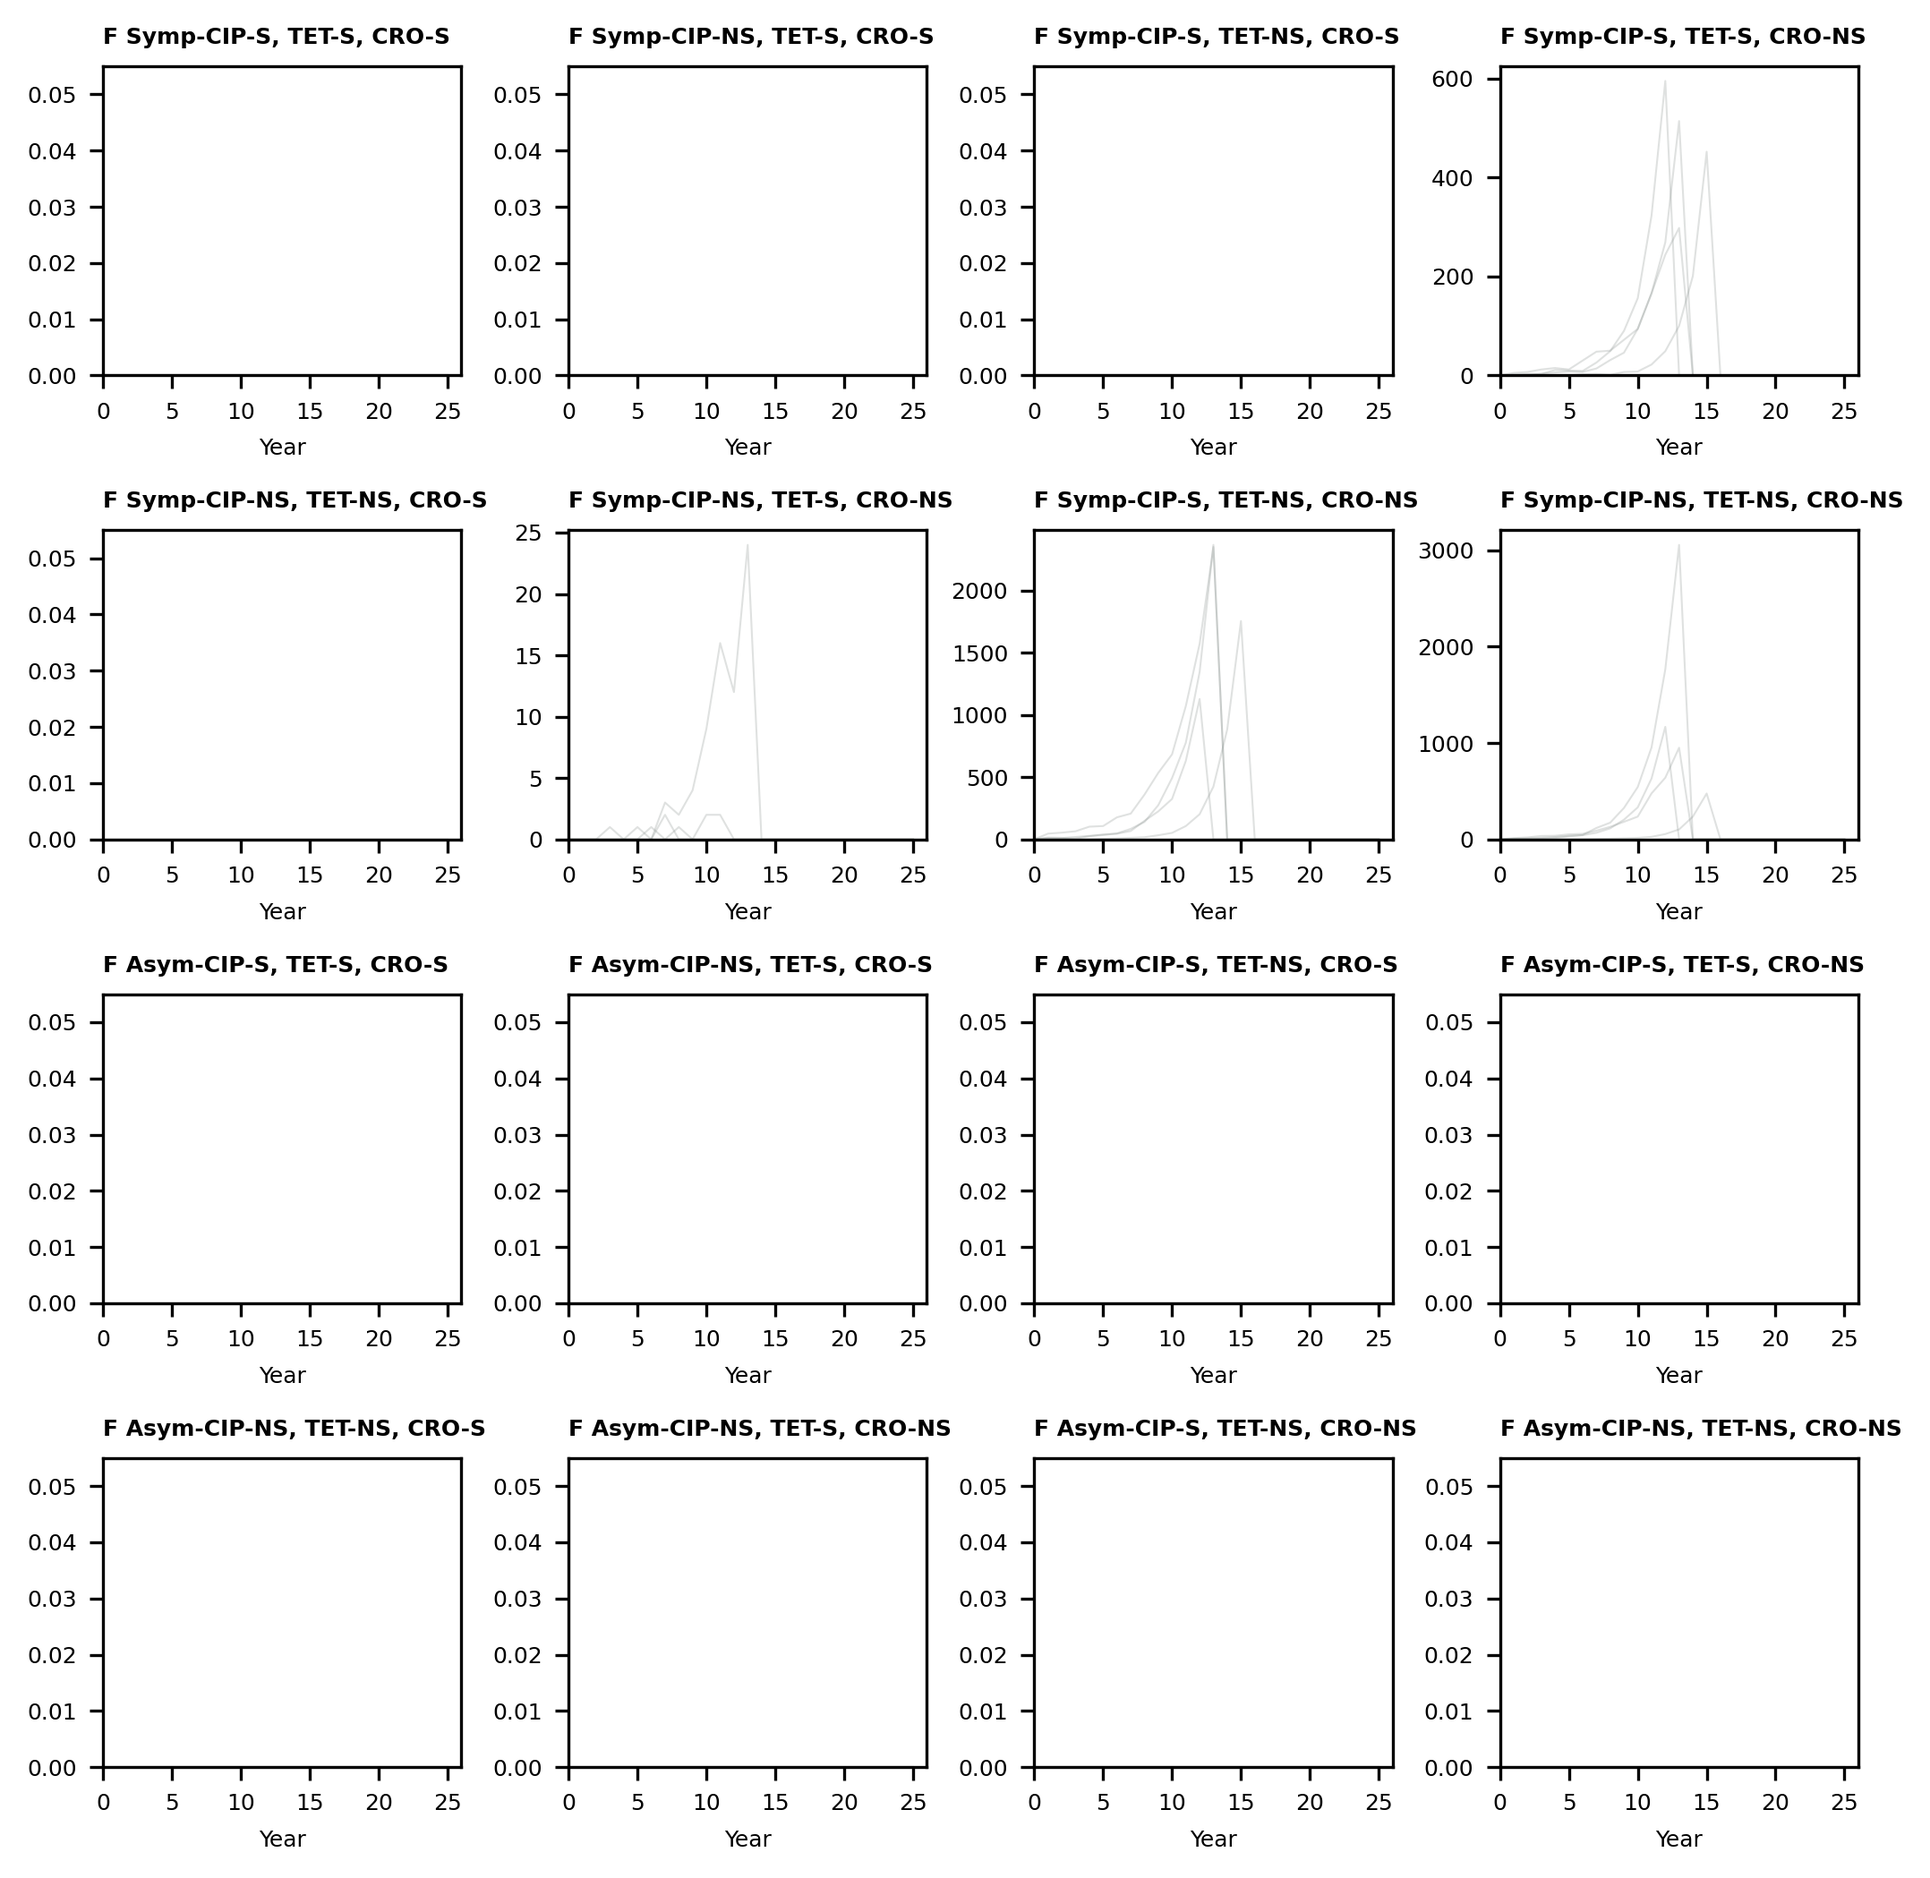
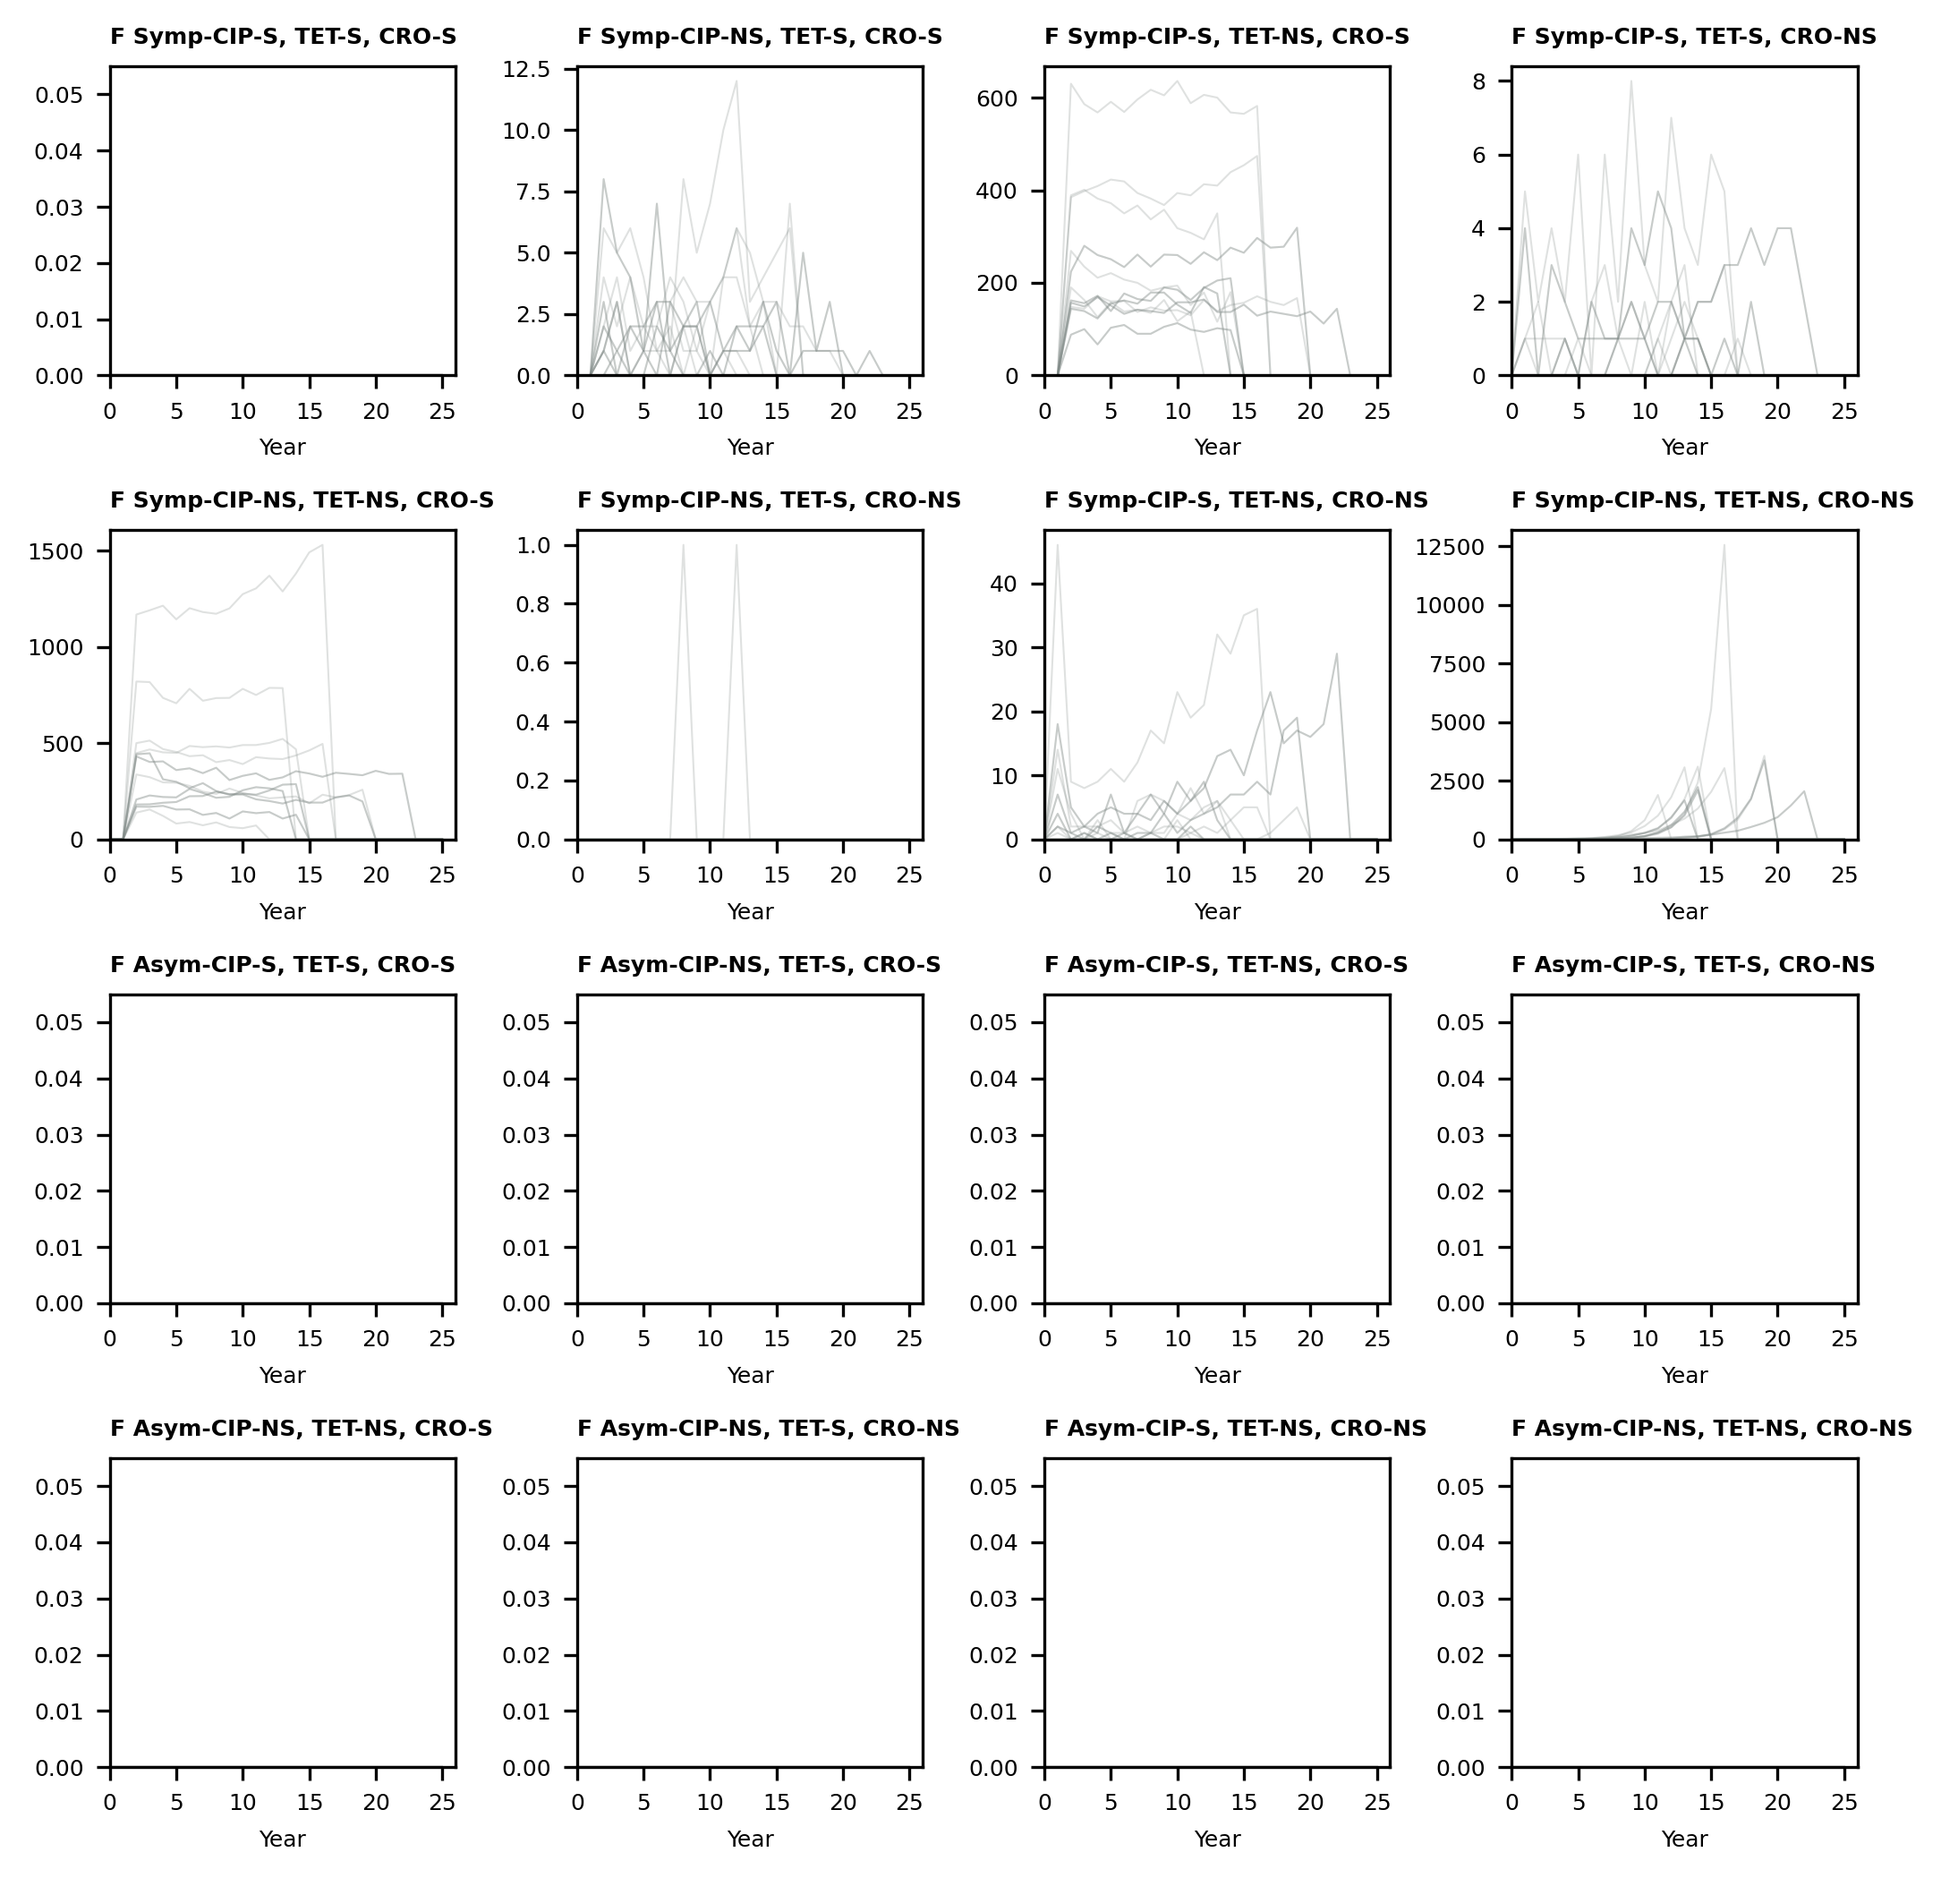
wider prior

diff --git a/analysis/calibrate.py b/analysis/calibrate.py
@@ -15,7 +15,7 @@ The results will be saved under analysis/outputs/with-M or analysis/outputs/no-M
 """
 
 RUN_IN_PARALLEL = True
-N_OF_CALIBRATION_ITERATIONS = 8*1    # total number of trajectories to simulate as part of calibration
+N_OF_CALIBRATION_ITERATIONS = 16*1    # total number of trajectories to simulate as part of calibration
 N_OF_TRAJS_TO_USE_FOR_SIMULATION = 4  # 16*2*10   # number of trajectories with the highest likelihood to keep
 N_OF_RESAMPLES_FOR_PARAM_ESTIMATION = 4 # 16*2*10  # number of parameter values to resample for parameter estimation
 
